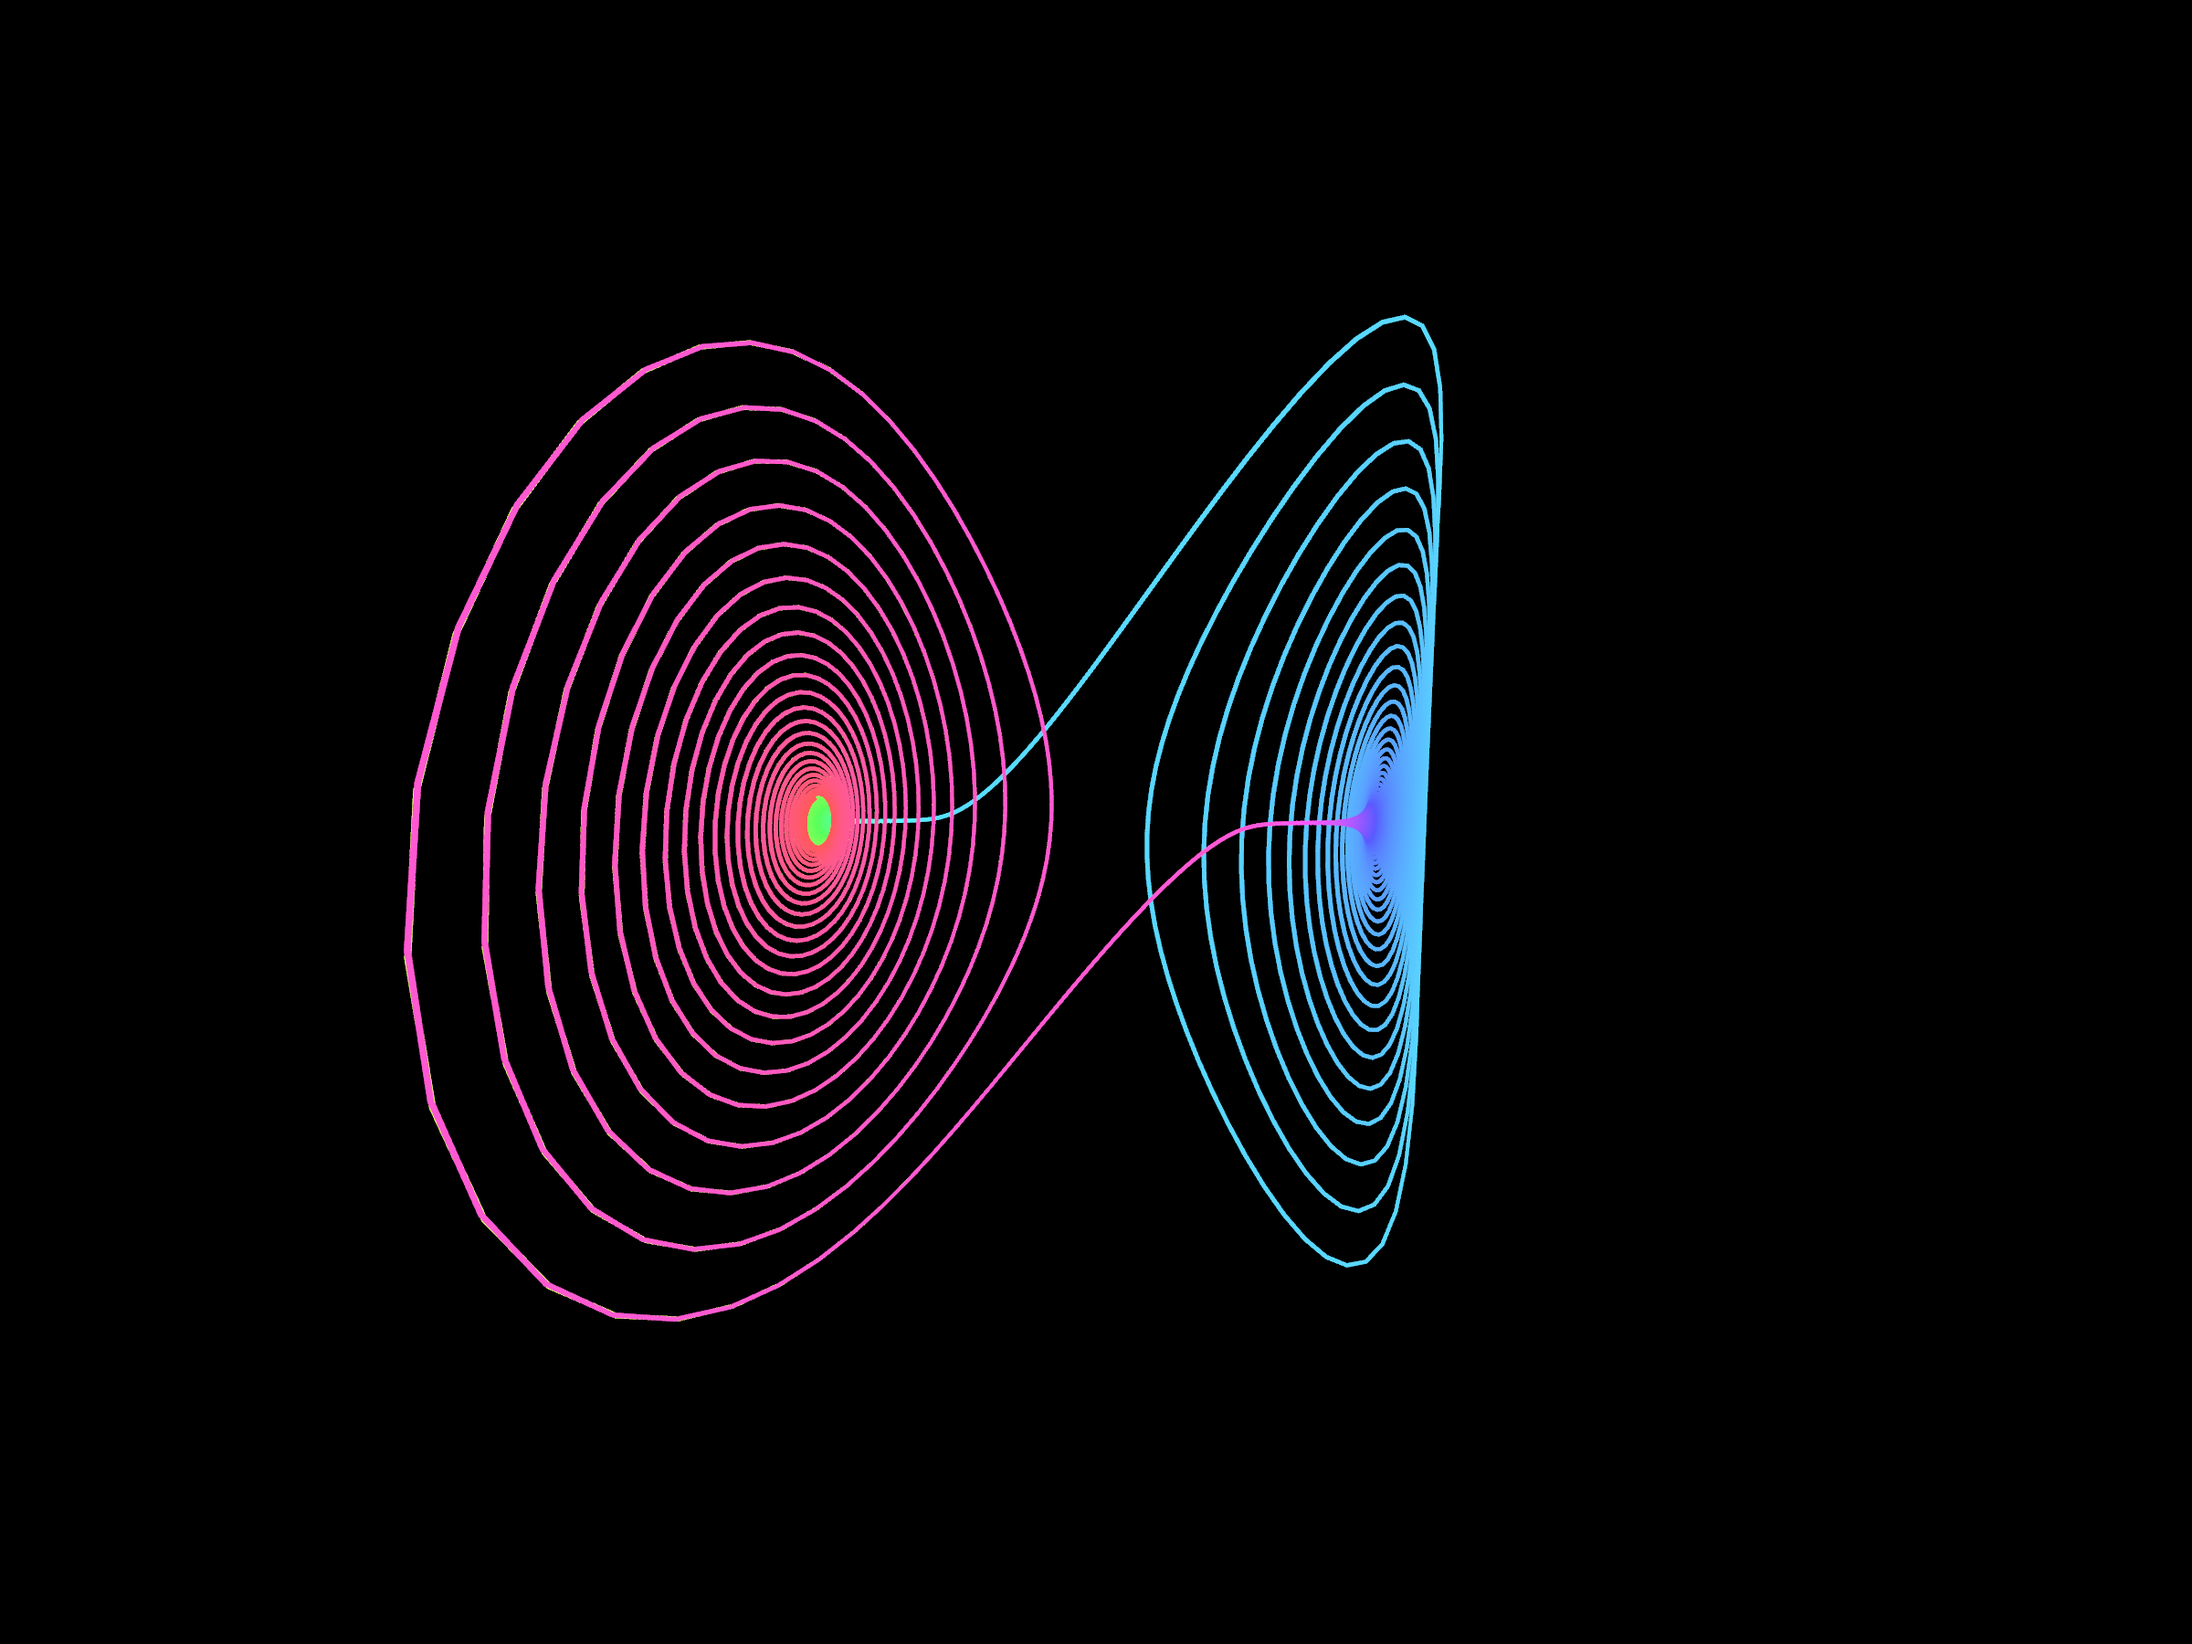
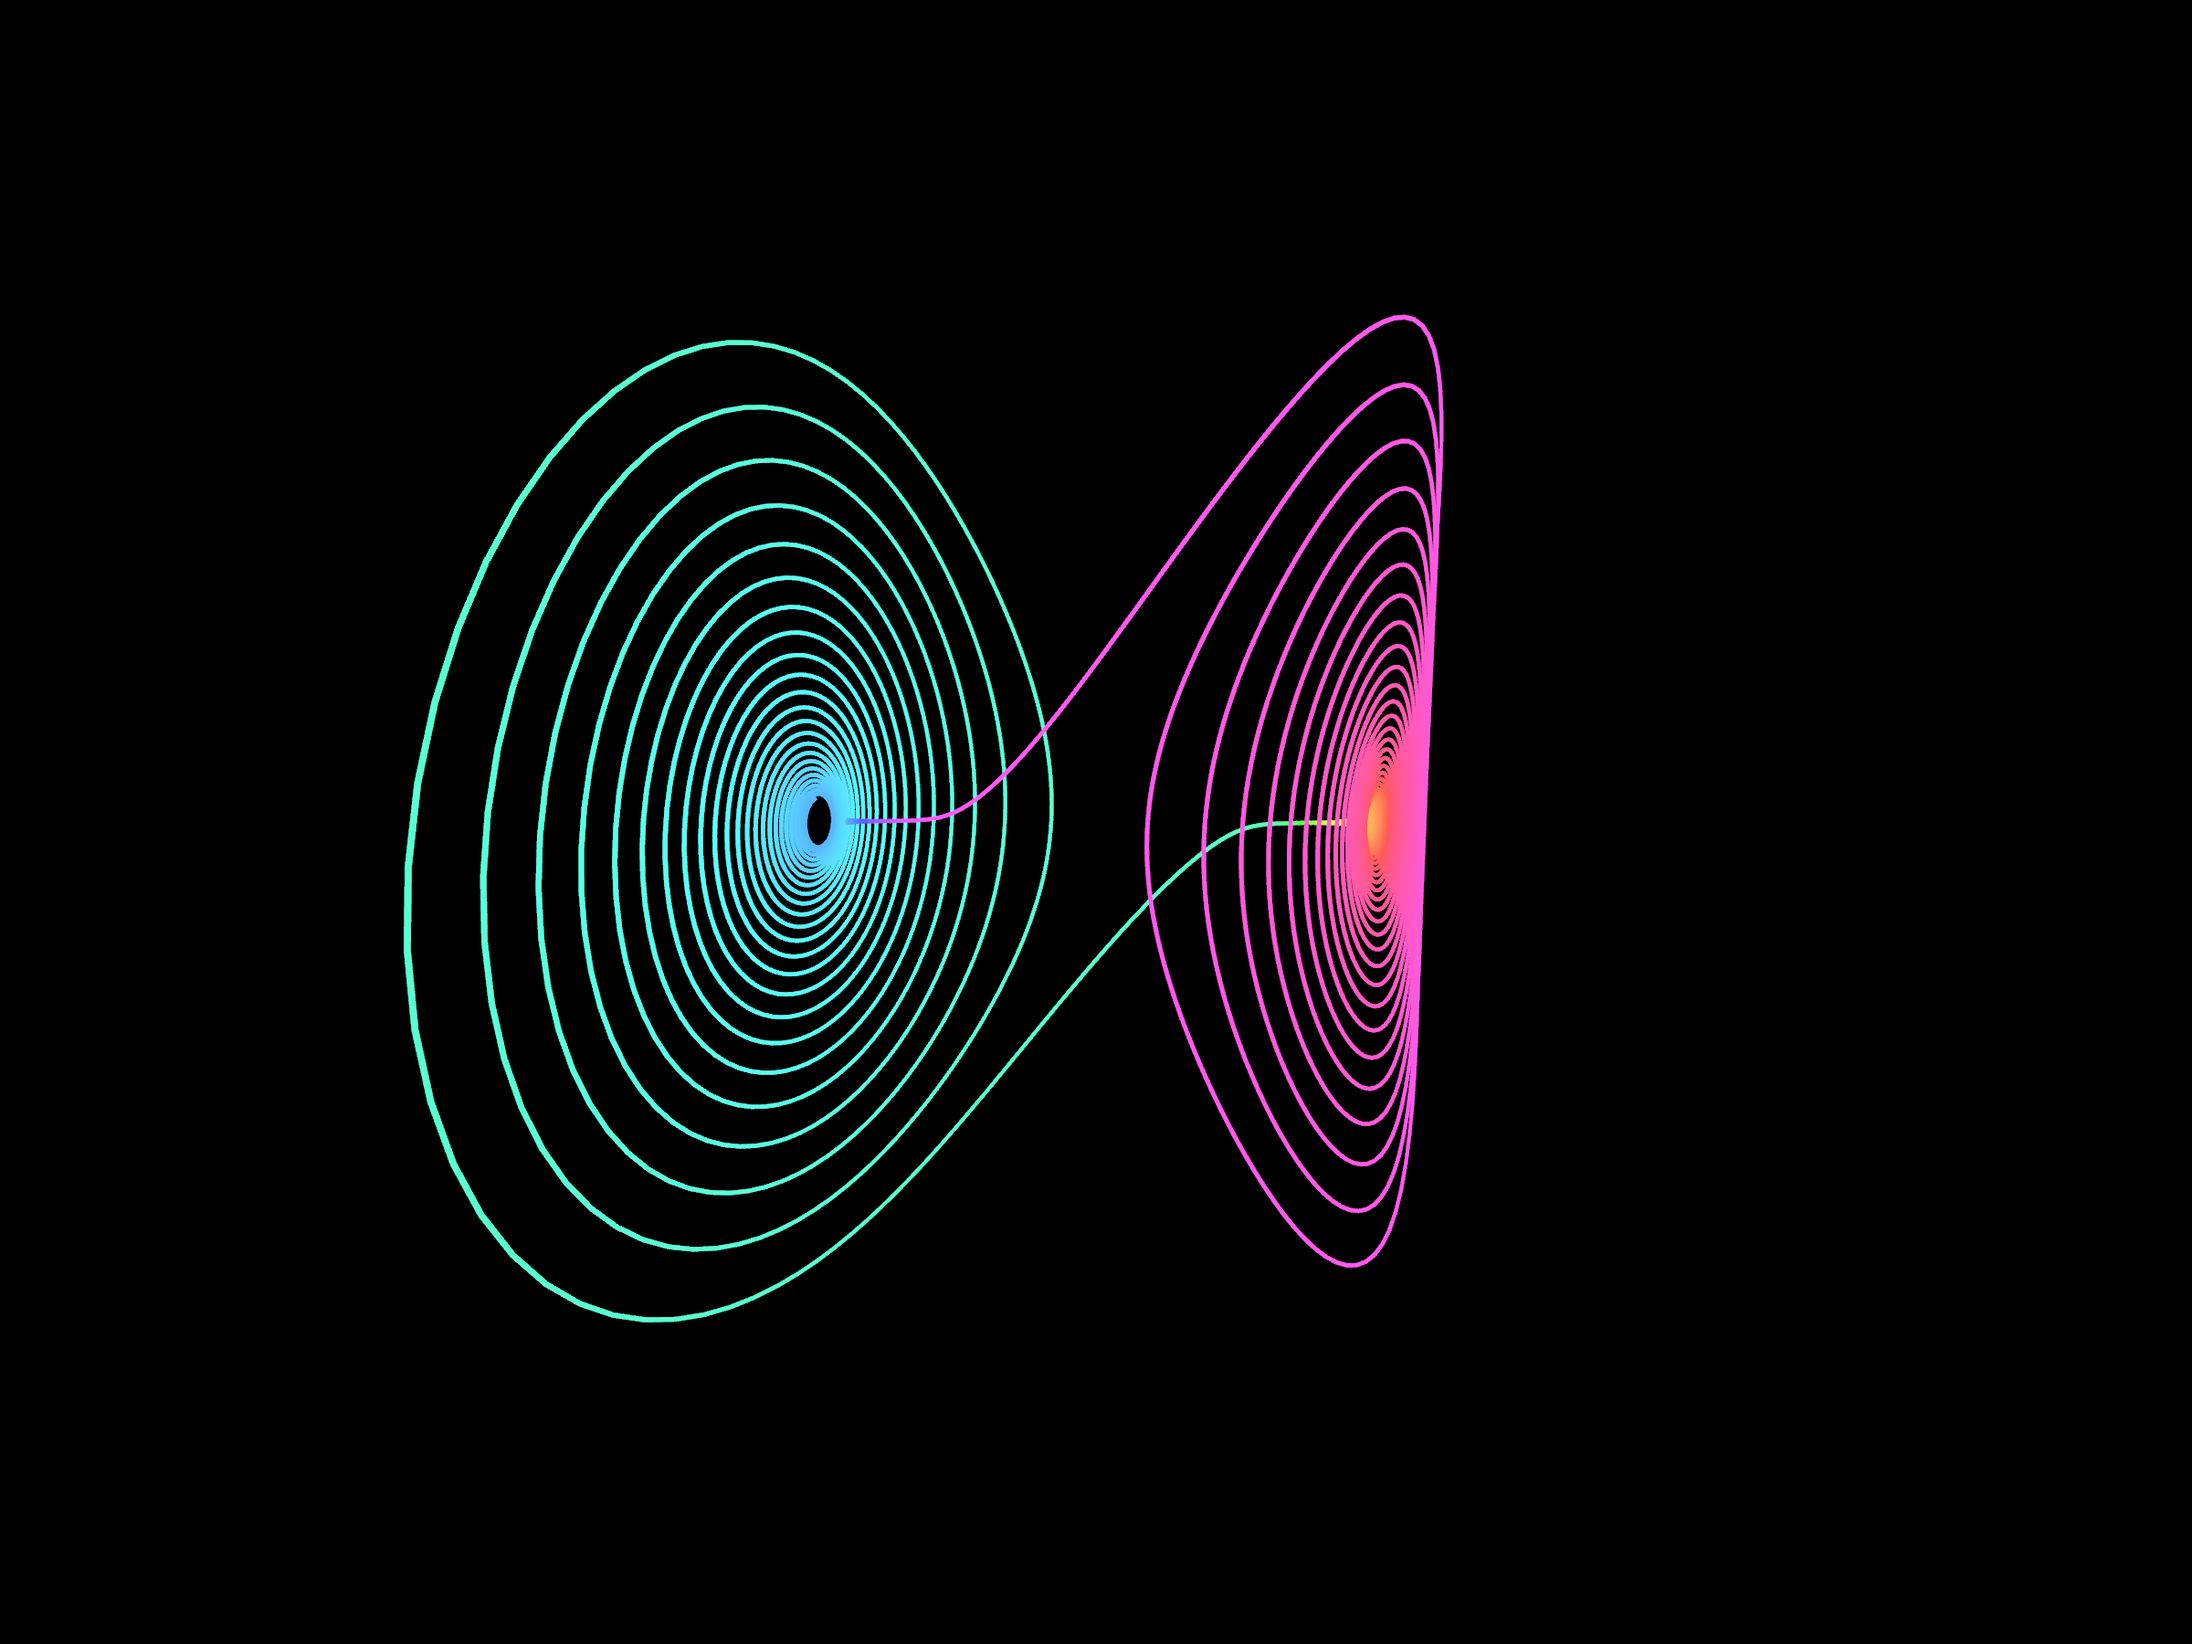
docs(images): re-capture Moore-Spiegel at trail 12000
The 20000-point window left the slow outer loops interleaving with the fast
lobes once the depth test was in place, reading as a yellow-pink zebra in the
left funnel. 12000 is the longest window that keeps them apart, so the recipe
now uses it.

The colour phase is pinned through the colour speed: the capture settles 90
ticks of 1/60 s, so speed 0.4 lands the gradient offset at 0.60. --color-mode
trail is explicit because a seeded random selection can draw Spatial, whose
stable axis colours ignore the offset by design -- an earlier phase sweep
produced five identical frames for exactly that reason.

Pin the flag wiring with a CLI test through prepare() and a player test, both
comparing the gradient at two colour speeds.

diff --git a/rust/crates/attractor-cli/tests/color_speed.rs b/rust/crates/attractor-cli/tests/color_speed.rs
@@ -1,0 +1,57 @@
+//! The command-line colour speed must reach the rendered gradient.
+
+use attractor_cli::{CommandLineArguments, prepare};
+
+const FRAME_INTERVAL: f64 = 1.0 / 60.0;
+const WARMUP_STEPS: usize = 1_000;
+const FRAMES: usize = 90;
+
+fn gradient(speed: &str) -> Vec<attractor_view::Rgb> {
+    let arguments: Vec<String> = [
+        "--attractor",
+        "moore_spiegel",
+        "--seed",
+        "17528556314502435919",
+        "--cam-azimuth",
+        "346.8283",
+        "--cam-elevation",
+        "36",
+        "--cam-speed",
+        "0",
+        "--trail-length",
+        "12000",
+        // The seed's random selection draws Spatial, whose stable axis colors
+        // deliberately ignore the offset; the flag only moves the fading ramp.
+        "--color-mode",
+        "trail",
+        "--trail-color-speed",
+        speed,
+        "--warmup-steps",
+        "1000",
+        "--frames",
+        "90",
+        "--screenshot",
+        "unused.png",
+    ]
+    .iter()
+    .map(|argument| argument.to_string())
+    .collect();
+    let parsed = CommandLineArguments::parse(&arguments).expect("the flags parse");
+    let mut run = prepare(&parsed).expect("the run prepares");
+    run.player
+        .warm_up(WARMUP_STEPS)
+        .expect("warm-up stays healthy");
+    for _ in 0..FRAMES {
+        run.player.tick(FRAME_INTERVAL).expect("frame advances");
+    }
+    run.player.geometry().colors().to_vec()
+}
+
+#[test]
+fn the_command_line_colour_speed_reaches_the_gradient() {
+    assert_ne!(
+        gradient("0"),
+        gradient("0.2"),
+        "a non-zero --trail-color-speed must shift the gradient"
+    );
+}

diff --git a/rust/crates/attractor-player/tests/player.rs b/rust/crates/attractor-player/tests/player.rs
@@ -323,3 +323,39 @@ fn hiding_the_overlay_inks_fewer_pixels_than_showing_it() {
         "the overlay must add ink: {hidden_pixels} hidden vs {shown_pixels} shown"
     );
 }
+
+fn player_with_colour_speed(seed: u64, speed: f64) -> Player {
+    let mut selection = lorenz();
+    selection.settings = attractor_core::SimulationSettings::new(
+        selection.settings.step_size,
+        selection.settings.simulation_speed,
+        selection.settings.camera_rotation_speed,
+        speed,
+        selection.settings.trail_length,
+        selection.settings.color_mode,
+    );
+    Player::new(
+        selection,
+        validated_catalog(),
+        pinned_options(),
+        SplitMix64::new(seed),
+    )
+    .expect("the player builds")
+}
+
+#[test]
+fn the_trail_colour_speed_shifts_the_gradient() {
+    let still = run_frames(5, 50, 30, pinned_options());
+    let mut player = player_with_colour_speed(5, 0.2);
+    player.warm_up(50).expect("warm-up stays healthy");
+    for _ in 0..30 {
+        player.tick(FRAME_INTERVAL).expect("frame advances");
+    }
+    let moved = player.geometry();
+    assert_eq!(still.positions(), moved.positions());
+    assert_ne!(
+        still.colors(),
+        moved.colors(),
+        "a non-zero trail colour speed must shift the gradient"
+    );
+}

diff --git a/rust/STATUS.md b/rust/STATUS.md
@@ -10,8 +10,8 @@ file, and commit atomically.
 ## Current state
 
 - Branch: `rust-port`
-- Last completed iteration: **I14 — ribbon depth buffer** (2026-11-20)
-- Last completed change: **I14 — ribbon depth buffer** (2026-11-20)
+- Last completed iteration: **I15 — Moore–Spiegel still** (2026-11-20)
+- Last completed change: **I15 — Moore–Spiegel still** (2026-11-20)
 - Next iteration: none — the plan is complete. Open follow-ups are listed in
   the per-iteration notes below and in design §9.
 - Windows manual checklist: `crates/attractor-windows-saver/README.md`,
@@ -178,6 +178,7 @@ and I11 add them back against `attractor-wasm` and the Android shell.
   release dry run pending)
 - [x] I13 — documentation media refresh (done; 2026-11-20)
 - [x] I14 — ribbon depth buffer (done; 2026-11-20)
+- [x] I15 — Moore–Spiegel still (done; 2026-11-20)
 
 ## Swift oracle
 
@@ -1037,10 +1038,14 @@ plain `git checkout` of the tag is enough.
   `z` in the blue channel, and the centre pixel must stay blue. The test was
   green on a real GPU and a motion recording was reviewed; the stills and the
   hero GIF were re-captured from the fixed renderer.
-- **I14 deferred**: the `moore_spiegel` still is the pre-I14 capture. With a
-  correct depth test its loops interleave at nearly the same depth in the left
-  funnel and read as a yellow-and-pink zebra, so the old frame was kept in
-  `docs/images` and left out of the re-capture set. The other eleven stills and
-  the hero were refreshed. To revisit: either pick an azimuth where the loops
-  do not interleave, or narrow the ribbon radius for this attractor; the
-  capture recipe itself is unchanged.
+- **I15 Moore–Spiegel still**: with the depth test in place the 20000-point
+  trail exposed its slow outer loops interleaving with the fast lobes in the
+  left funnel — the yellow-and-pink zebra from the I14 note. The lever turned
+  out to be the trail window, not the camera or the ribbon radius: a sweep of
+  2000–20000 showed 12000 is the longest window that keeps the loops apart, and
+  the recipe now uses it. The colour phase is deliberate too. The browser seed
+  drew `Spatial` mode, which by design ignores the colour offset, so the first
+  phase sweep produced identical frames; `--color-mode trail` is now pinned and
+  the still uses colour speed 0.4, which lands the offset at 0.60 after the
+  90-tick settle. `crates/attractor-cli/tests/color_speed.rs` pins the flag
+  through `prepare` so the same silent no-op cannot come back unnoticed.
